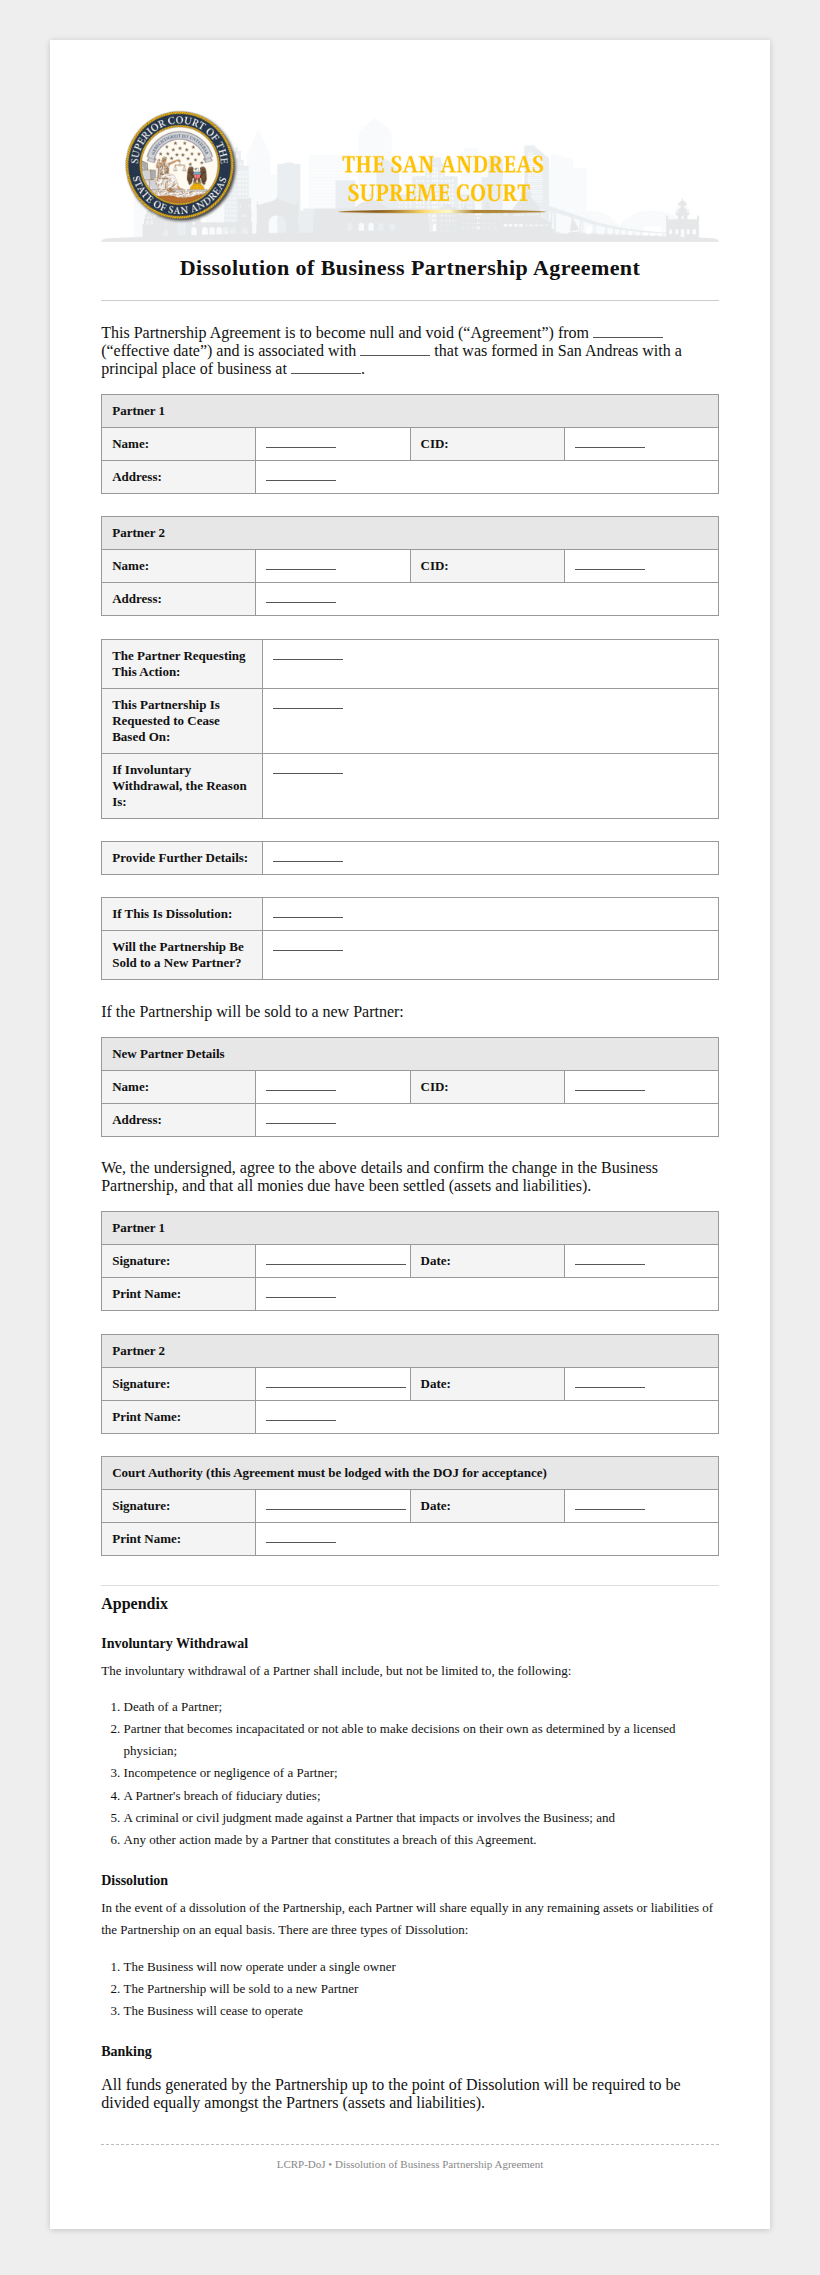
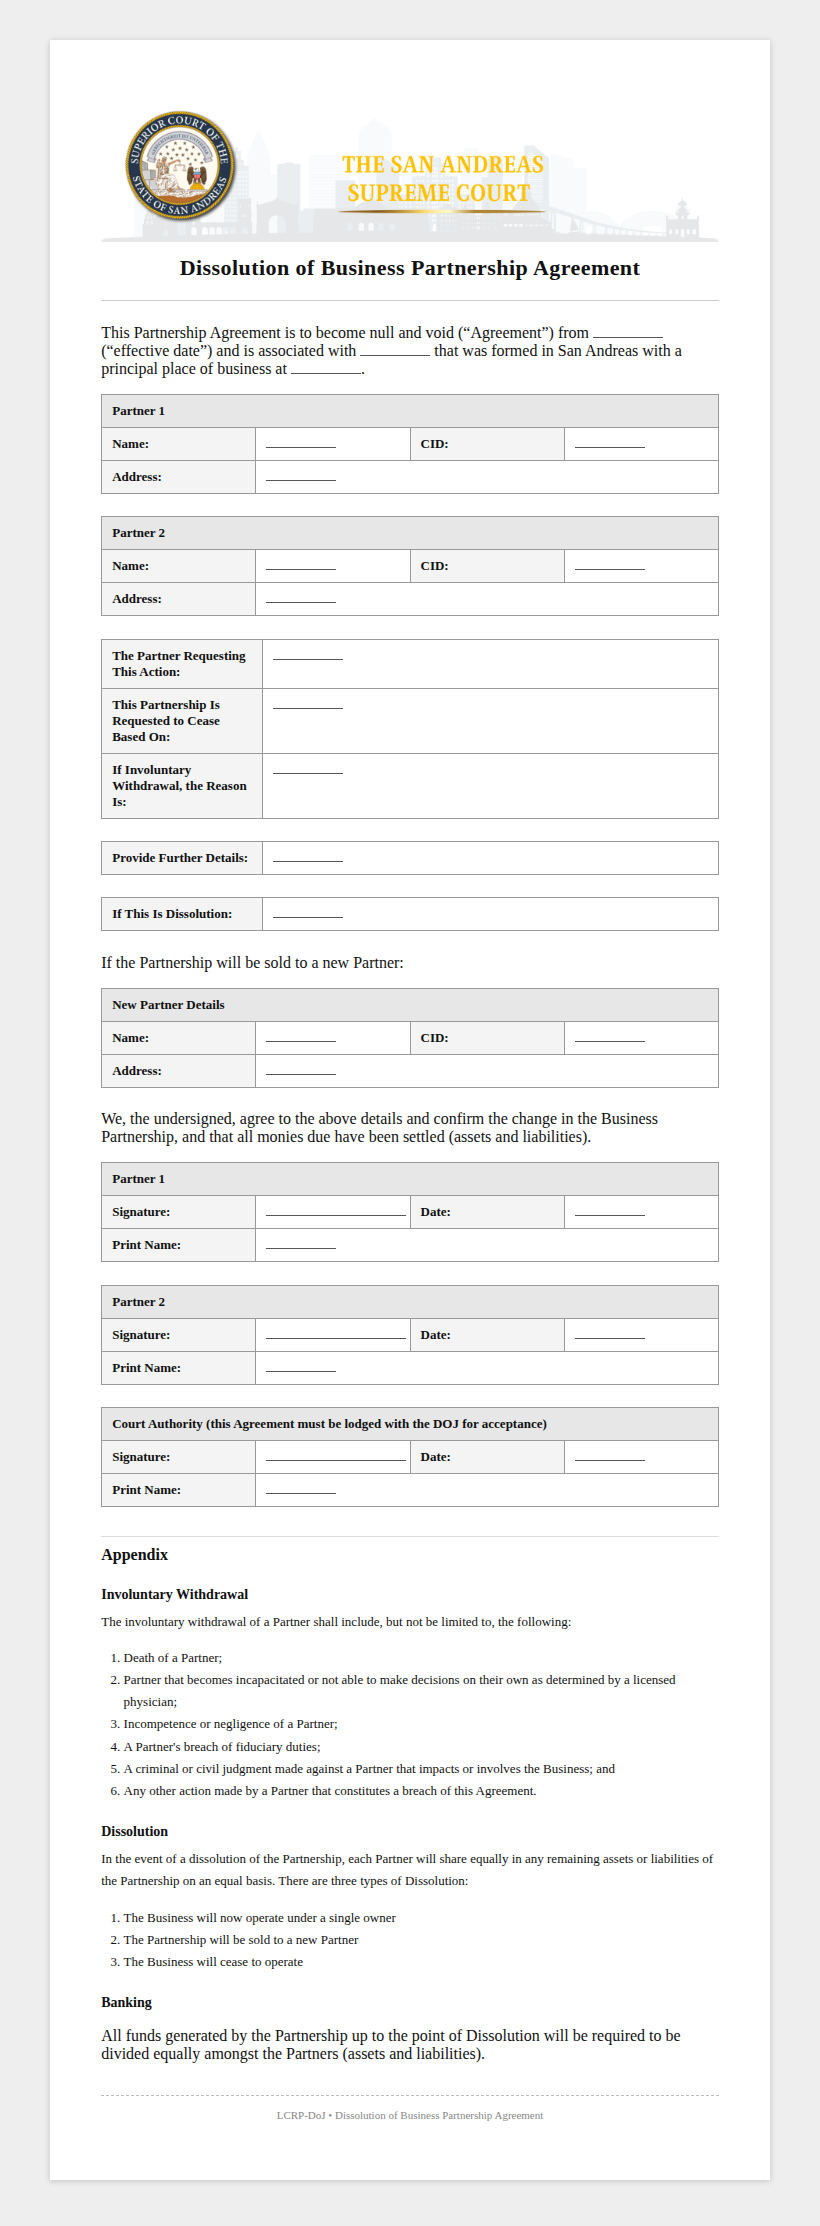
Add depends_on/skip_value conditional fields; fix Dissolution of Partnership
New field-level schema: "depends_on": {"field": "<key>", "equals": "<value>"}
plus "skip_value". If the referenced field's answer doesn't match, the bot
never asks this field — it fills skip_value ("N/A") straight in. Documented
and enforced in validate.py: depends_on.field must exist, and if that field
is type "choice", the equals value must be one of its options.

Applied to Dissolution of Partnership:
- involuntary_withdrawal_reason only asked if cessation_basis == "Involuntary
  Withdrawal"; dissolution_type only if cessation_basis == "Dissolution";
  new_partner_name/cid/address only if dissolution_type == "Sold to a New
  Partner". All skip to "N/A" otherwise instead of asking irrelevant
  questions.
- Removed is_sold_to_new_partner entirely: it duplicated the "Sold to a New
  Partner" option already inside dissolution_type, so it was two questions
  asking the same thing.
- Reworded the choice-type prompts (requesting_partner, cessation_basis,
  involuntary_withdrawal_reason, dissolution_type) to spell out the actual
  options in the question text instead of leaving the filer guessing, and
  normalized option casing to Title Case throughout.

Regenerated the preview PNG and rebuilt templates/index.json.

diff --git a/templates/dissolution_of_partnership.html b/templates/dissolution_of_partnership.html
@@ -47,7 +47,6 @@
 
     <table class="form-grid">
       <tr><td class="label">If This Is Dissolution:</td><td><span class="field">{{dissolution_type}}</span></td></tr>
-      <tr><td class="label">Will the Partnership Be Sold to a New Partner?</td><td><span class="field">{{is_sold_to_new_partner}}</span></td></tr>
     </table>
 
     <p class="doc-body">If the Partnership will be sold to a new Partner:</p>

diff --git a/templates/validate.py b/templates/validate.py
@@ -84,6 +84,27 @@ for json_path in sorted(glob.glob("*.json")):
         if fb != "applicant" and has_prompt:
             errors.append(f"[{template_id}] field '{field['key']}' has filled_by={fb!r} but has a prompt (should be null -- only 'applicant' fields are asked during intake)")
 
+    # depends_on/skip_value: a field only gets asked if an earlier field's
+    # answer matches; otherwise the bot fills skip_value without asking.
+    fields_by_key = {f["key"]: f for f in manifest["fields"]}
+    for field in manifest["fields"]:
+        depends_on = field.get("depends_on")
+        if depends_on is None:
+            continue
+        if "skip_value" not in field:
+            errors.append(f"[{template_id}] field '{field['key']}' has depends_on but no skip_value")
+        dep_field_key = depends_on.get("field")
+        dep_field = fields_by_key.get(dep_field_key)
+        if dep_field is None:
+            errors.append(f"[{template_id}] field '{field['key']}' depends_on unknown field {dep_field_key!r}")
+            continue
+        dep_value = depends_on.get("equals")
+        if dep_field.get("type") == "choice" and dep_value not in dep_field.get("options", []):
+            errors.append(
+                f"[{template_id}] field '{field['key']}' depends_on {dep_field_key}=={dep_value!r}, "
+                f"but {dep_value!r} is not one of {dep_field_key}'s options {dep_field.get('options')}"
+            )
+
 print(f"Checked {len(all_json_keys_by_template)} templates.")
 if errors:
     print(f"\n{len(errors)} issue(s) found:\n")
